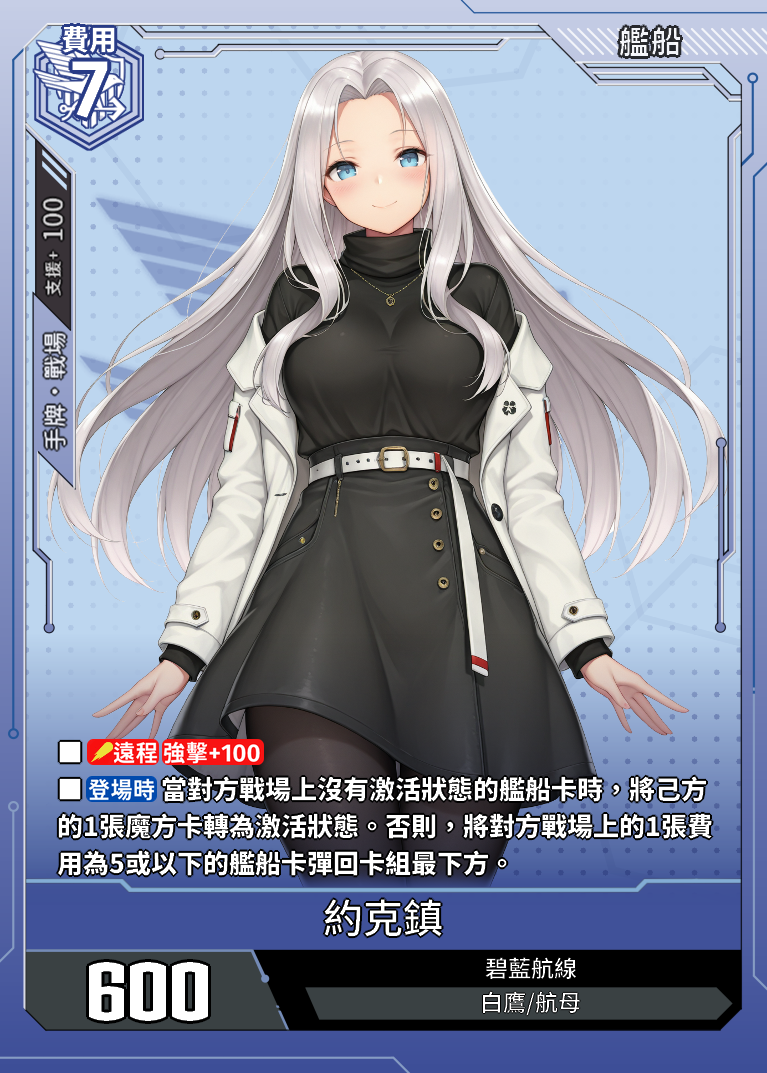
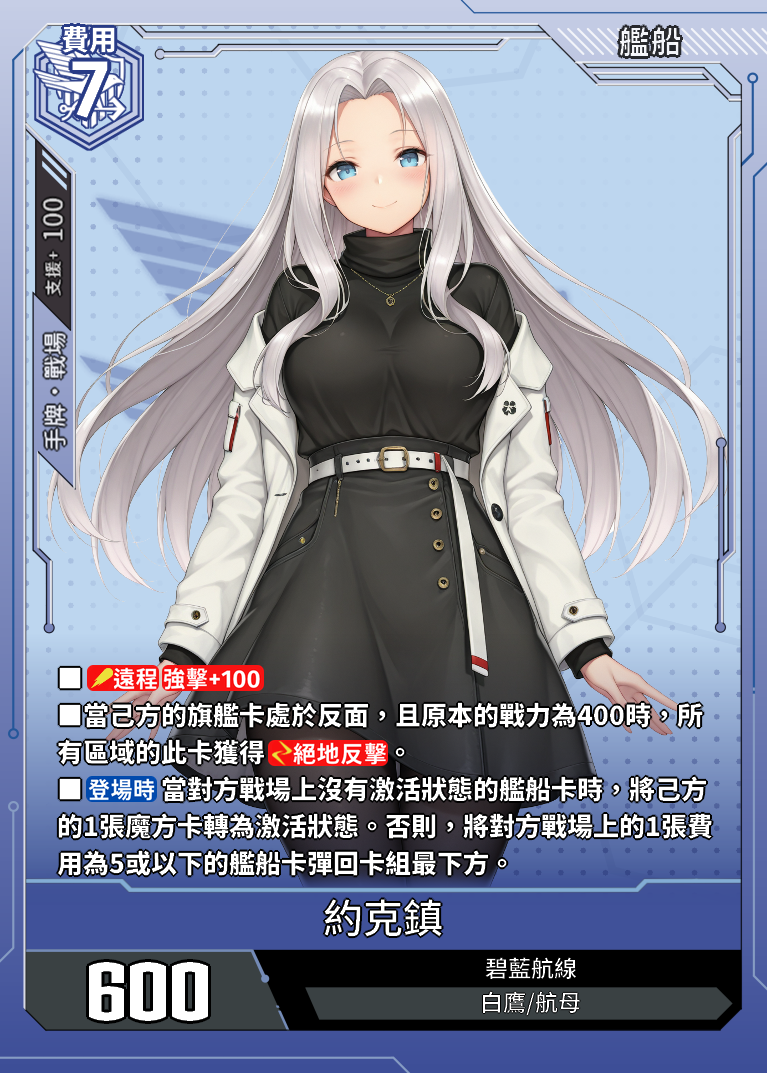
修改企業約克鎮

Changed region(s): [[0.06, 0.6151, 0.9296, 0.7381]]

diff --git a/data.js b/data.js
@@ -24371,10 +24371,10 @@ const cards = [
             "艦船類型": "航母",
             "罕　貴": "-",
             "勢　力": "碧藍航線",
-            "支援範圍": "手牌",
+            "支援範圍": "手牌·戰場",
             "支援值": "100"
         },
-        "card_effect": "■【遠程】【強擊+100】■當己方的旗艦卡處於反面，且原本的戰力為400時，所有區域的此卡獲得【絕地反擊】。■【登場時】選擇對方戰場上的1張艦船卡，直到下一個對方回合結束為止，該卡不能攻擊。",
+        "card_effect": "■【遠程】【強擊+100】■當己方的旗艦卡處於反面，且原本的戰力為400時，所有區域的此卡獲得【絕地反擊】。■【登場時】選擇對方戰場上的1張艦船卡，直到下一個對方回合結束為止，該卡不能攻擊或支援。",
         "acquisition_method": "CE02-早期測試"
     },
 	{
@@ -24393,7 +24393,7 @@ const cards = [
             "支援範圍": "手牌·戰場",
             "支援值": "100"
         },
-        "card_effect": "■【遠程】【強擊+100】■【登場時】當對方戰場上沒有激活狀態的艦船卡時，將己方的1張魔方卡轉為激活狀態。否則，將對方戰場上的1張費用為5或以下的艦船卡彈回卡組最下方。",
+        "card_effect": "■【遠程】【強擊+100】■當己方的旗艦卡處於反面，且原本的戰力為400時，所有區域的此卡獲得【絕地反擊】。■【登場時】當對方戰場上沒有激活狀態的艦船卡時，將己方的1張魔方卡轉為激活狀態。否則，將對方戰場上的1張費用為5或以下的艦船卡彈回卡組最下方。",
         "acquisition_method": "CE02-早期測試"
     },
 	{
